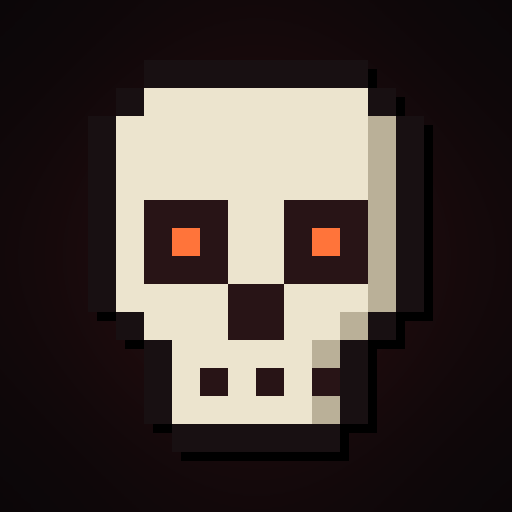
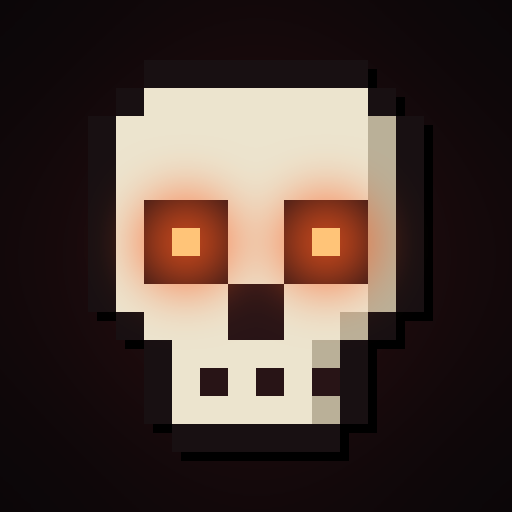
Animowana ikona: oddychający żar w oczodołach, żar rysowany na wierzchu

Changed region(s): [[0.2188, 0.3438, 0.75, 0.625]]

diff --git a/tools/make_art.py b/tools/make_art.py
@@ -7,11 +7,12 @@ Zar w oczach ma ten sam pomaranczowy, co napis HARDCORE na banerze.
 
 Uzycie:  python3 tools/make_art.py
          FONT_DIR=/sciezka/do/fontow python3 tools/make_art.py   # dla banera
-Wynik:   docs/media/icon.png (512x512), docs/media/banner.png (1280x640)
+Wynik:   docs/media/icon.png (512x512), icon.gif (256x256, animowana), banner.png (1280x640)
 
 Baner potrzebuje Antonio i Poppins (oba SIL OFL, Google Fonts). Nie trzymamy ich w repo -
 bez nich powstaje sama ikona.
 """
+import math
 import os
 from pathlib import Path
 
@@ -23,6 +24,7 @@ FONTY = Path(os.environ.get("FONT_DIR", "/usr/share/fonts"))
 TLO = (10, 6, 8)
 TLO_POSWIATA = (40, 14, 16)  # czerwonawy srodek - niebezpieczenstwo bez krzyku
 ZAR = (255, 116, 58)
+ZAR_JASNY = (255, 196, 120)  # oko w szczycie oddechu
 
 CZASZKA = [
     "....KKKKKKKK....",
@@ -50,30 +52,59 @@ def _poswiata(im, box, promien, kolor):
     return Image.composite(Image.new("RGB", im.size, kolor), im, maska)
 
 
-def czaszka(im, ox, oy, kratka):
-    """Najpierw zar pod oczodolami, potem twardy cien, na koncu same piksele."""
-    for y, rzad in enumerate(CZASZKA):
-        for x, c in enumerate(rzad):
-            if c == "O":
-                sx, sy = ox + x * kratka + kratka // 2, oy + y * kratka + kratka // 2
-                im = _poswiata(im, (sx - kratka, sy - kratka, sx + kratka, sy + kratka),
-                               kratka * 0.7, (255, 90, 30))
+def czaszka(im, ox, oy, kratka, zar=1.0):
+    """Twardy cien, piksele, a zar na samym wierzchu - pod spodem zaslanialyby go oczodoly.
+    `zar` 0..1 skaluje poswiate i jasnosc oczu - z tego zyje animacja."""
+    kolory = dict(KOLORY)
+    kolory["O"] = tuple(int(e + (o - e) * (0.3 + 0.7 * zar)) for o, e in zip(ZAR_JASNY, KOLORY["E"]))
     rys = ImageDraw.Draw(im)
     for przes, cien in ((kratka // 3, True), (0, False)):
         for y, rzad in enumerate(CZASZKA):
             for x, c in enumerate(rzad):
-                if c in KOLORY:
+                if c in kolory:
                     x0, y0 = ox + x * kratka + przes, oy + y * kratka + przes
                     rys.rectangle([x0, y0, x0 + kratka - 1, y0 + kratka - 1],
-                                  fill=(0, 0, 0) if cien else KOLORY[c])
+                                  fill=(0, 0, 0) if cien else kolory[c])
+    if zar > 0.05:
+        maska = Image.new("L", im.size, 0)
+        md = ImageDraw.Draw(maska)
+        for y, rzad in enumerate(CZASZKA):
+            for x, c in enumerate(rzad):
+                if c == "O":
+                    sx, sy = ox + x * kratka + kratka // 2, oy + y * kratka + kratka // 2
+                    r = kratka * (0.8 + 0.9 * zar)
+                    md.ellipse((sx - r, sy - r, sx + r, sy + r), fill=int(200 * zar))
+        maska = maska.filter(ImageFilter.GaussianBlur(kratka * 0.9))
+        im = Image.composite(Image.new("RGB", im.size, (255, 90, 30)), im, maska)
+        # sam piksel oka zostaje ostry nad poswiata
+        rys = ImageDraw.Draw(im)
+        for y, rzad in enumerate(CZASZKA):
+            for x, c in enumerate(rzad):
+                if c == "O":
+                    x0, y0 = ox + x * kratka, oy + y * kratka
+                    rys.rectangle([x0, y0, x0 + kratka - 1, y0 + kratka - 1], fill=kolory["O"])
     return im
 
 
-def ikona(bok=512):
+def ikona(bok=512, zar=1.0, unies=0):
     im = Image.new("RGB", (bok, bok), TLO)
     im = _poswiata(im, (60, 60, bok - 60, bok - 60), 90, TLO_POSWIATA)
     kratka = bok * 28 // 512
-    return czaszka(im, (bok - 16 * kratka) // 2, (bok - len(CZASZKA) * kratka) // 2, kratka)
+    return czaszka(im, (bok - 16 * kratka) // 2,
+                   (bok - len(CZASZKA) * kratka) // 2 - unies * kratka // 4, kratka, zar)
+
+
+def animacja(bok=256, klatki=24):
+    """Oddech zaru + czaszka unoszaca sie o cwierc kratki; w polowie petli oczy gasna
+    na dwie klatki, jakby cos w nich mrugnelo. 256 px, bo Modrinth tnie ikone do 256 KiB."""
+    kadry = []
+    for i in range(klatki):
+        faza = math.sin(2 * math.pi * i / klatki)
+        zar = 0.0 if i in (14, 15) else 0.55 + 0.45 * faza
+        kadry.append(ikona(bok, zar, unies=round(1 + faza)))
+    kadry = [k.quantize(64, dither=Image.Dither.NONE) for k in kadry]
+    kadry[0].save(WYNIK / "icon.gif", save_all=True, append_images=kadry[1:],
+                  duration=[80] * klatki, loop=0, optimize=True, disposal=1)
 
 
 def baner(szer=1280, wys=640):
@@ -101,6 +132,8 @@ def main() -> None:
     WYNIK.mkdir(parents=True, exist_ok=True)
     ikona().save(WYNIK / "icon.png")
     print(WYNIK / "icon.png")
+    animacja()
+    print(WYNIK / "icon.gif")
     try:
         baner().save(WYNIK / "banner.png")
         print(WYNIK / "banner.png")
